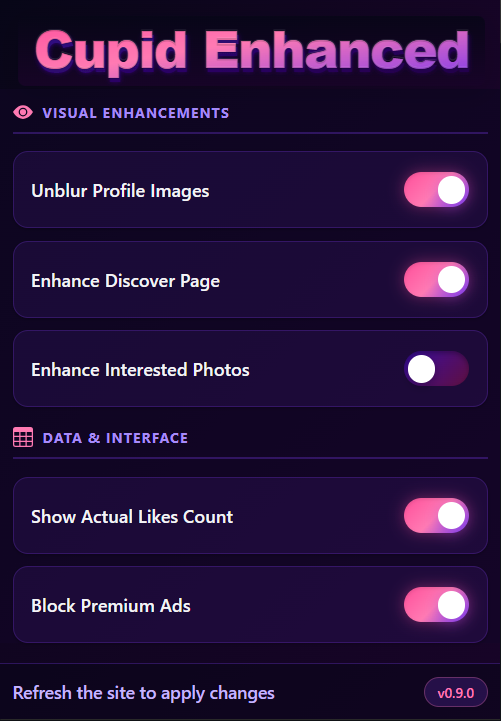
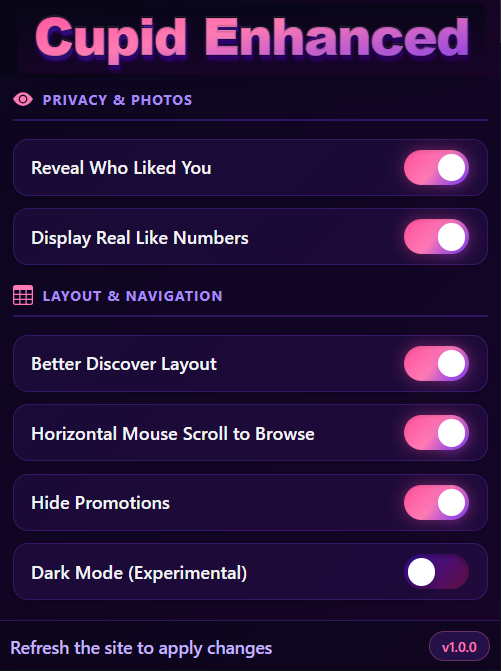
docs: update README to enhance feature descriptions and improve navigation structure

diff --git a/README.md b/README.md
@@ -27,8 +27,8 @@
   - [📚 Table of Contents](#-table-of-contents)
   - [📖 Project Overview](#-project-overview)
   - [🎯 Features](#-features)
-    - [✨ Visual Enhancements](#-visual-enhancements)
-    - [📈 Data \& Interface](#-data--interface)
+    - [🔒 Privacy \& Photos](#-privacy--photos)
+    - [🎨 Layout \& Navigation](#-layout--navigation)
     - [🎛 Customization](#-customization)
   - [⚙ Installation](#-installation)
     - [Prerequisites](#prerequisites)
@@ -42,7 +42,6 @@
     - [Features Implementation](#features-implementation)
   - [🗺 Roadmap](#-roadmap)
     - [Planned Features](#planned-features)
-    - [Future Considerations](#future-considerations)
   - [🔐 Privacy and Security](#-privacy-and-security)
     - [Permissions](#permissions)
   - [❓ FAQs](#-faqs)
@@ -59,19 +58,23 @@ Cupid Enhanced is a Chrome extension that enhances the OkCupid experience by unl
 ## 🎯 Features
 
 ### 🔒 Privacy & Photos
-- **👁 Reveal Who Liked You** - View clear, unblurred profile pictures of users who liked you
-- **📸 Show Full-Size Photos** - Remove height restrictions and view photos in their full glory
-- **💯 Display Real Like Numbers** - See your actual like count instead of "99+"
+- **👁 Reveal Who Liked You** - View clear, unblurred profile pictures of all users who viewed or liked you and sort the list
+- **💯 Display Real Like Numbers** - See your actual like count instead of "99+ interested"
+- **📅 Photo Dates** - See when profile photos were uploaded on the discover page
 
 ### 🎨 Layout & Navigation
-- **📐 Widen Discover Layout** - Expanded page width (90%) with better centering for larger viewing area
-- **🖱 Mouse Scroll to Browse** - Use horizontal mouse scroll to navigate through profiles
-- **🚫 Hide Premium Promotions** - Clean interface without premium upgrade ads
+- **📐 Better Discover Layout** - Expanded page width with centered layout, photo dates, and likes remaining counter
+- **🖱 Horizontal Scroll** - Use mouse wheel to navigate through profiles horizontally
+- **🚫 Hide Promotions** - Clean interface without premium upgrade ads
+- **🏆 Premium plus Badge** - Display premium plus badge (visual only)
+- **⌨ Shortcuts** - Use `Ctrl+Enter` to send intro messages
+- **⏪ Rewind** - Enable the rewind button functionality
 
 ### 🎛 Customization
 - **⚙ Settings Popup** - Beautiful dark-themed popup with easy toggle controls for all features
+- **🌙 Dark Mode** - Experimental dark mode support
 - **💾 Persistent Settings** - Your preferences are saved and synced across sessions
-- **🔄 Real-time Updates** - Changes apply instantly without requiring page reloads
+- **🔄 Partial Real-time Updates** - Some changes apply instantly without requiring page reloads
 
 
 
@@ -141,16 +144,21 @@ The extension features a beautiful dark-themed popup with gradient colors matchi
 
 ### Planned Features
 
-- **📅 Image Dates Display** ([#2](https://github.com/RL199/cupid-enhanced/issues/2)) - Show when profile photos were uploaded on the discover page
-- **⏰ Likes Remaining Counter** ([#3](https://github.com/RL199/cupid-enhanced/issues/3)) - Display how many likes you have left and when the counter resets
 - **🌟 Spotlight Indicator** ([#4](https://github.com/RL199/cupid-enhanced/issues/4)) - See if a user in discover page is from Spotlight
 - **💝 Mutual Like Indicator** ([#5](https://github.com/RL199/cupid-enhanced/issues/5)) - See if users in discover page have already liked you
-
-### Future Considerations
-
-- Statistics dashboard
-- Advanced filtering options
-- More customization controls
+- **📂 Passed Profiles Archive** - Access profiles you've passed on discover page
+- **🤖 AI Intro Message Generator** - Generate personalized intro messages using AI
+- **🌑 Enhanced Dark Mode** - Full dark mode support across all OkCupid pages
+- **📐 Widen Likes You Page Layout** - Similar to discover page layout enhancement
+- **⌨ Additional Keyboard Shortcuts** - More navigation and action shortcuts
+- **📥 Profile Photo Downloader** - Download profile photos in bulk
+- **🌍 Localization Support** - Multi-language support for the popup and features
+- **💬 Feed Text Translation** - Translate feed text into multiple languages
+- **🛒 Chrome Web Store Publishing** - Make the extension available for easy installation via the Chrome Web Store
+- **🦊 Cross-Browser Compatibility** - Extend support to Firefox and other browsers
+- **📊 Analytics Dashboard** - Provide insights into your dating activity and extension usage
+- **⚡ Auto pass/like for Custom Filters** - Automatically pass or like profiles based on user-defined criteria
+- **🎨 Light/Dark mode Popup Theme Customization** - More options to customize the popup and interface appearance
 
 
 ## 🔐 Privacy and Security
